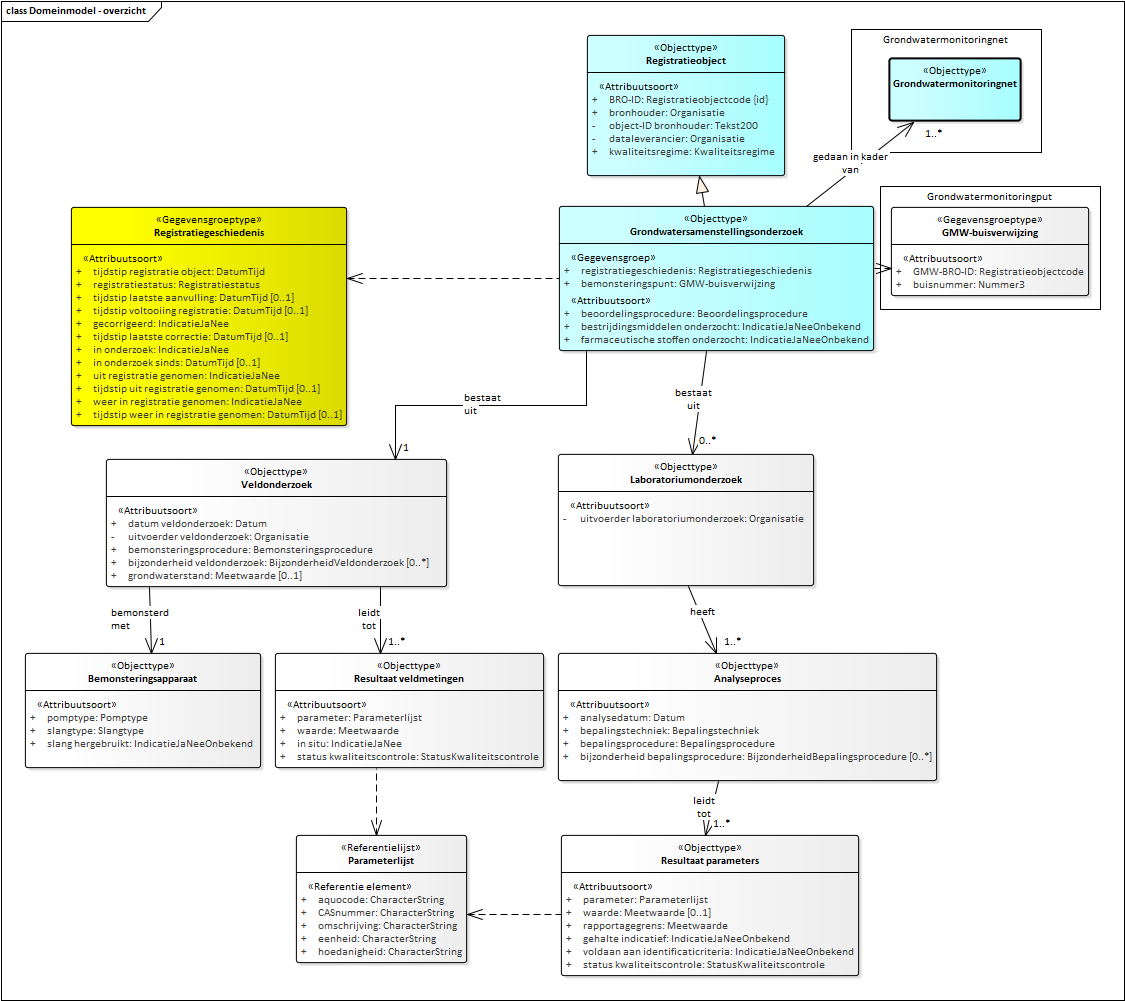
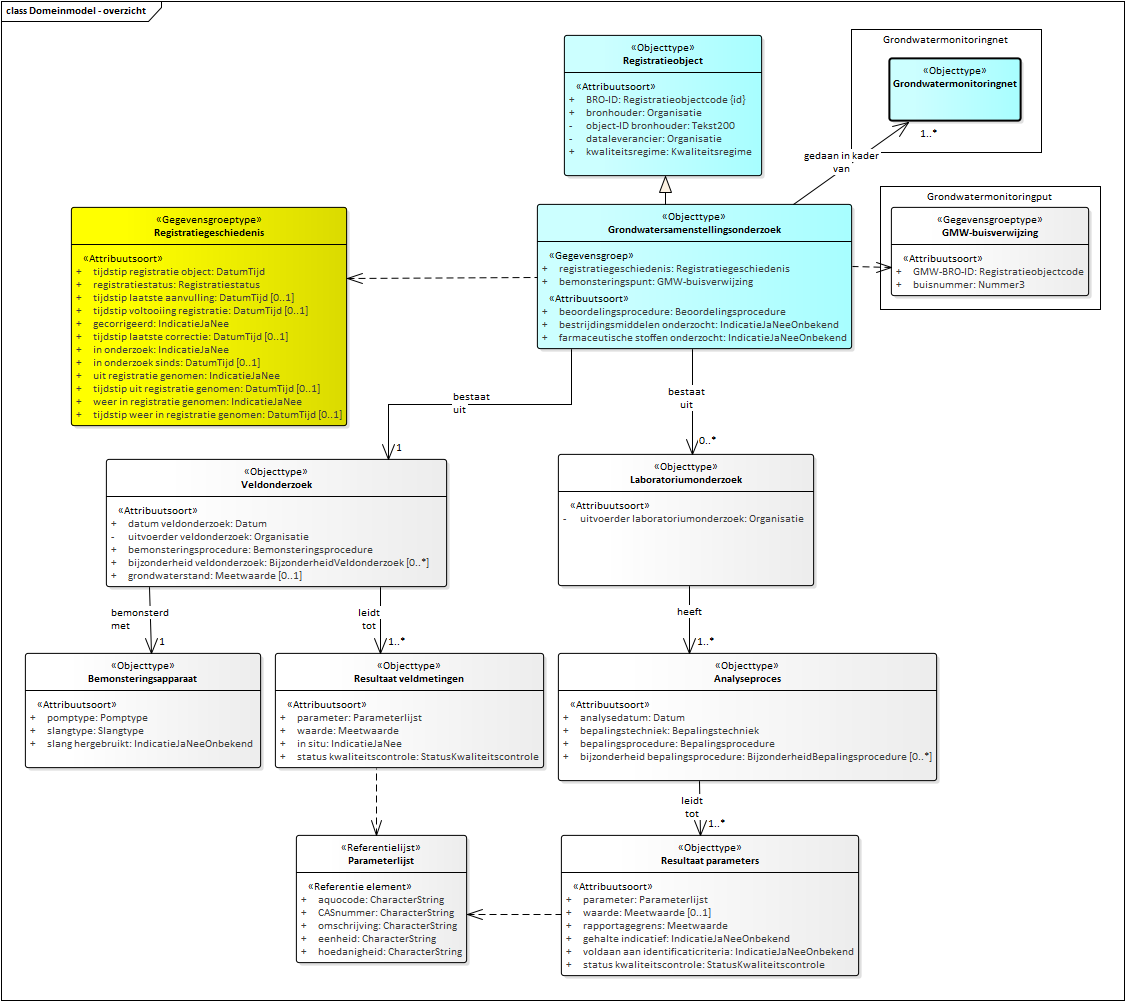
Conceptualmodel-GrondwatersamenstellingsonderzoekGAR-0.1-0-20181119-20190212-133238

diff --git a/data/GAR-cat.html b/data/GAR-cat.html
@@ -1,23 +1,23 @@
 <h2>Catalogus</h2>
 <p class="note" title="Over deze catalogus">
    Deze catalogus is automatisch samengesteld op basis van het UML model 
-   "Grondwatersamenstellingsonderzoek (GAR)" door Imvertor 1.50.1 op February 11, 2019 at 14:16:52.
+   "Grondwatersamenstellingsonderzoek (GAR)" door Imvertor 1.50.1 op February 12, 2019 at 12:32:37.
    <br>
    Wanneer je technische fouten of onvolkomenheden aantreft, geef dit dan door aan <i></i> en geef de code 
-   <i>"Conceptualmodel-GrondwatersamenstellingsonderzoekGAR-0.1-0-20181119-20190211-151653"</i> door. 
+   <i>"Conceptualmodel-GrondwatersamenstellingsonderzoekGAR-0.1-0-20181119-20190212-133238"</i> door. 
    
 </p>
 <div class="imageinfo overview"><img src="data/Images/EAID_BBDCFEE2_BB5A_4b62_99F2_796C8F526D8F.png" usemap="#imagemap-EAID_BBDCFEE2_BB5A_4b62_99F2_796C8F526D8F"><map name="imagemap-EAID_BBDCFEE2_BB5A_4b62_99F2_796C8F526D8F">
       <area shape="rect" coords="296,963,467,835" alt="" href="#graph_EAID_FEC2B1DD_E5C2_4c90_8B71_B69ADC431AB0">
       <area shape="rect" coords="889,121,1021,58" alt="" href="#graph_EAID_F327F5A5_BFAE_4282_A78C_984A77CF8D47">
       <area shape="rect" coords="558,781,937,653" alt="" href="#graph_EAID_13B17A95_9027_44e5_8888_932C8C1AB2BB">
-      <area shape="rect" coords="587,176,785,35" alt="" href="#graph_EAID_933522FF_DE42_4e2d_A209_EAAC1B0132CF">
+      <area shape="rect" coords="564,176,762,35" alt="" href="#graph_EAID_933522FF_DE42_4e2d_A209_EAAC1B0132CF">
       <area shape="rect" coords="25,768,261,653" alt="" href="#graph_EAID_161FA1ED_4217_4735_BFA8_EC93200FFA67">
       <area shape="rect" coords="561,976,859,835" alt="" href="#graph_EAID_0ADEB093_BDEB_47f4_B5B0_8E0E0A003E0D">
       <area shape="rect" coords="558,586,814,454" alt="" href="#graph_EAID_438F8C26_FF54_4aff_AD7F_C6521BD69D2D">
       <area shape="rect" coords="275,768,544,653" alt="" href="#graph_EAID_842A7CA1_C8F1_4165_A1C4_90E8FA408109">
       <area shape="rect" coords="106,587,447,459" alt="" href="#graph_EAID_2F5089D1_4361_456b_8D24_ED2114330AAD">
-      <area shape="rect" coords="559,351,874,206" alt="" href="#graph_EAID_BAB5C8A8_2997_4fbe_BE80_A531990FF2FE"></map><p><b>Domeinmodel - overzicht</b></p>
+      <area shape="rect" coords="537,349,852,204" alt="" href="#graph_EAID_BAB5C8A8_2997_4fbe_BE80_A531990FF2FE"></map><p><b>Domeinmodel - overzicht</b></p>
 </div>
 <div class="imageinfo overview"><img src="data/Images/EAID_0553A643_1D42_425b_A4A0_47AD9DFE4CE7.png" usemap="#imagemap-EAID_0553A643_1D42_425b_A4A0_47AD9DFE4CE7"><map name="imagemap-EAID_0553A643_1D42_425b_A4A0_47AD9DFE4CE7">
       <area shape="rect" coords="624,368,724,279" alt="" href="#graph_EAID_0F674ADC_D7F9_445a_BE42_A976FAD26804">
@@ -32,7 +32,7 @@
       <area shape="rect" coords="45,448,145,319" alt="" href="#graph_EAID_1A7489B9_55B3_4f76_ACA0_7B6F5A055C03">
       <area shape="rect" coords="43,298,165,182" alt="" href="#graph_EAID_6D75EE04_4F2A_45c7_AAF6_281FE776BE4E">
       <area shape="rect" coords="157,231,363,51" alt="" href="#graph_EAID_A836FA74_F811_46fe_A7D8_A7BF10DF5411">
-      <area shape="rect" coords="44,167,170,51" alt="" href="#graph_EAID_70E0DAEF_4FE0_4902_B2F1_17870B44D732"></map><p><b>Waardelijsten - overzicht</b></p>
+      <area shape="rect" coords="44,180,170,51" alt="" href="#graph_EAID_70E0DAEF_4FE0_4902_B2F1_17870B44D732"></map><p><b>Waardelijsten - overzicht</b></p>
 </div>
 <div class="imageinfo overview"><img src="data/Images/EAID_A1844355_72B0_466d_B8D4_6DD92281E08D.png" usemap="#imagemap-EAID_A1844355_72B0_466d_B8D4_6DD92281E08D"><map name="imagemap-EAID_A1844355_72B0_466d_B8D4_6DD92281E08D">
       <area shape="rect" coords="351,248,451,196" alt="" href="#graph_EAID_864E154C_5AD7_446f_B407_F78709882F50">
@@ -5676,6 +5676,14 @@
                <td>Nederlandse technische afspraak NTA 8017, Monsterneming van grondwater ten behoeve
                   van de monitoring van grondwaterkwaliteit, november 2016. Dit is een bijlage uit het
                   Handboek Monitoring Grondwaterkwaliteit KRW provincies en RIVM.
+               </td>
+            </tr>
+            <tr>
+               <td></td>
+               <td>SIKBProtocol2002</td>
+               <td>Protocol 2002, Het nemen van grondwatermonsters, versie 6.0, februari 2018. Dit protocol
+                  is onderdeel van SIKB 2000 (certificatieschema of accreditatieschema) dat van toepassing
+                  is op het nemen van grondwatermonsters bij milieuhygiënisch bodemonderzoek.
                </td>
             </tr>
             <tr>
